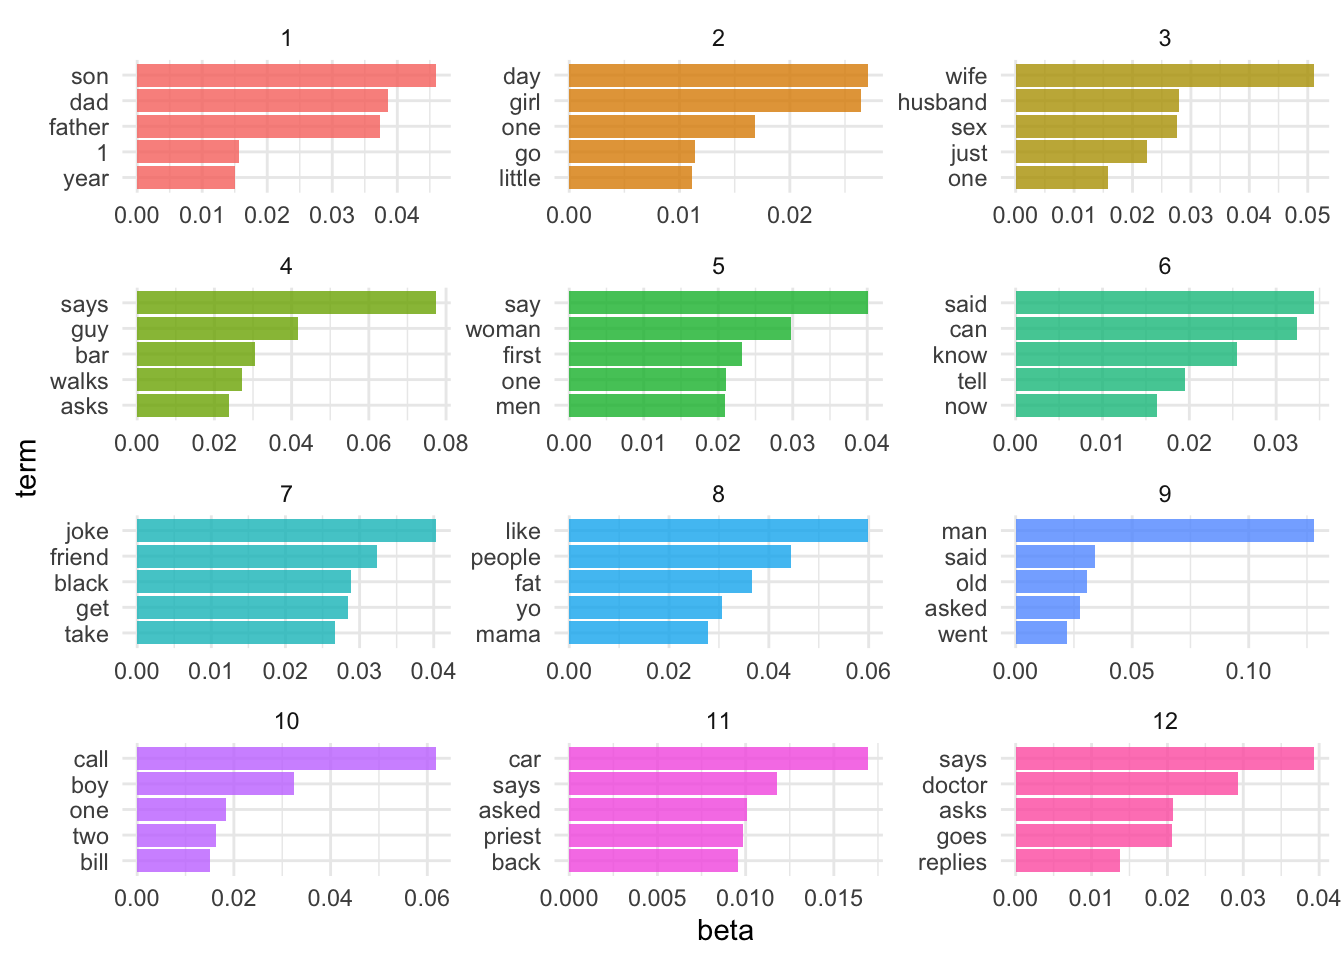
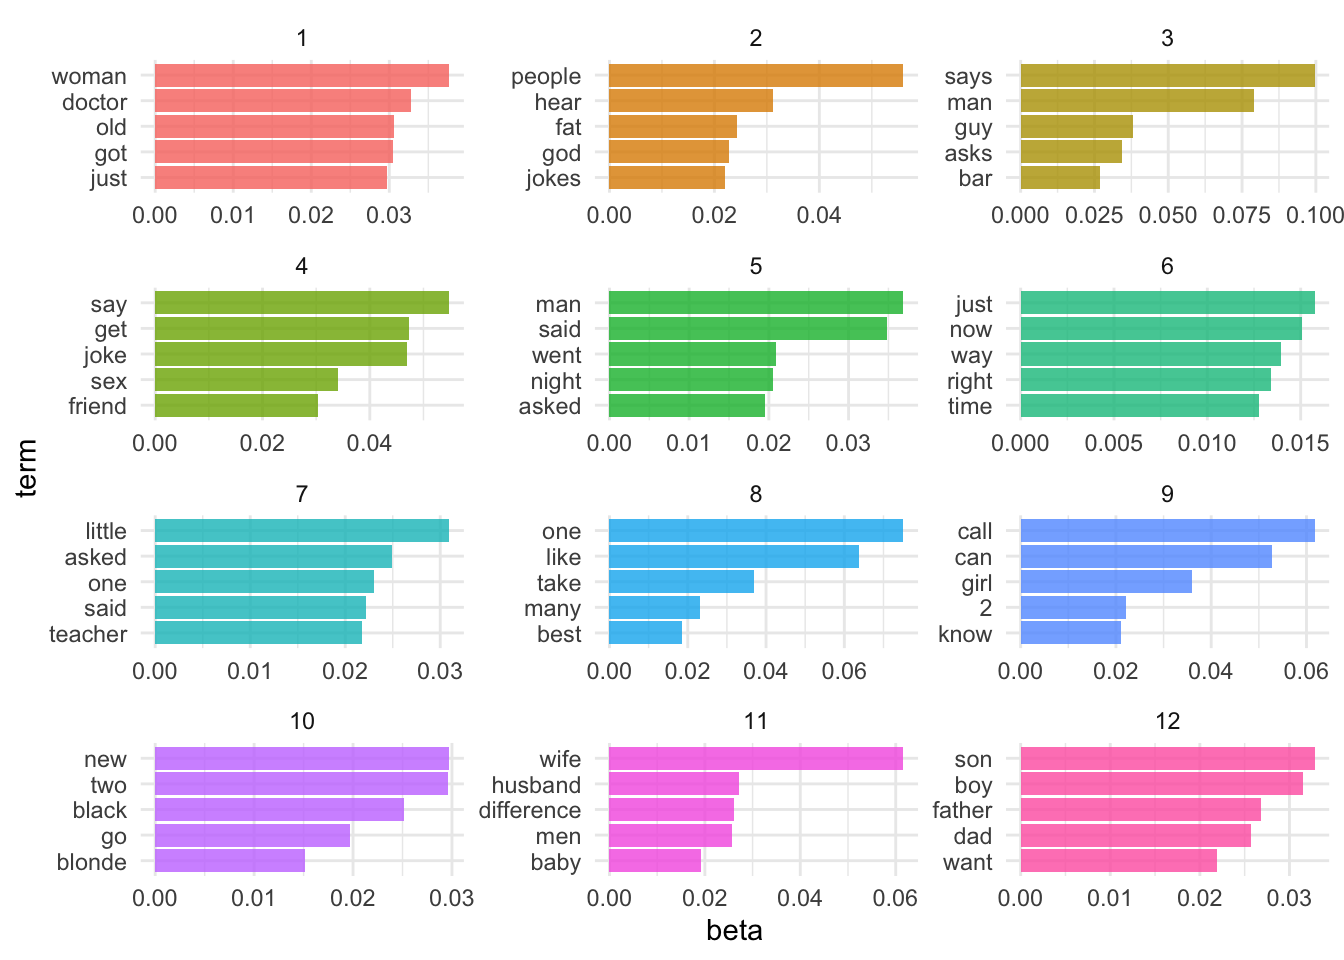
Increase number of jokes retained for LDA

diff --git a/content/notes/topic-modeling/index.md b/content/notes/topic-modeling/index.md
@@ -103,16 +103,23 @@ Frequently when using LDA, you don't actually know the underlying topic structur
 <blockquote class="reddit-card" data-card-created="1552319072"><a href="https://www.reddit.com/r/Jokes/comments/a593r0/twenty_years_from_now_kids_are_gonna_think_baby/">Twenty years from now, kids are gonna think "Baby it's cold outside" is really weird, and we're gonna have to explain that it has to be understood as a product of its time.</a> from <a href="http://www.reddit.com/r/Jokes">r/Jokes</a></blockquote>
 <script async src="//embed.redditmedia.com/widgets/platform.js" charset="UTF-8"></script>
 
-[`r/jokes`](https://www.reddit.com/r/Jokes/) is a subreddit for text-based jokes. Jokes can be up or down-voted depending on their popularity. [`joke-dataset`](https://github.com/taivop/joke-dataset/) contains a dataset of all joke submissions through February 2, 2017. We can obtain the JSON file storing these jokes and convert them into a document-term matrix:
+[`r/jokes`](https://www.reddit.com/r/Jokes/) is a subreddit for text-based jokes. Jokes can be up or down-voted depending on their popularity. [`joke-dataset`](https://github.com/taivop/joke-dataset/) contains a dataset of all joke submissions through February 2, 2017. We can obtain the JSON file storing these jokes and convert them into a document-term matrix.
 
 
 ```r
 # obtain r/jokes and extract values from the JSON file
 jokes_json <- fromJSON(file = "https://github.com/taivop/joke-dataset/raw/master/reddit_jokes.json")
 
-set.seed(123)
 jokes <- tibble(jokes = jokes_json) %>%
   unnest_wider(col = jokes)
+```
+
+```
+## Warning in deparse(x, backtick = TRUE): NAs introduced by coercion to integer
+## range
+```
+
+```r
 glimpse(jokes)
 ```
 
@@ -135,8 +142,10 @@ Within the `tidymodels` framework, unsupervised learning is typically implemente
 
 
 ```r
+set.seed(123) # set seed for random sampling
+
 jokes_rec <- recipe(~., data = jokes) %>%
-  step_sample(size = 5e03) %>%
+  step_sample(size = 1e04) %>%
   step_tokenize(title, body) %>%
   step_tokenmerge(title, body, prefix = "joke") %>%
   step_stopwords(joke) %>%
@@ -167,48 +176,46 @@ jokes_df %>%
 
 ```
 ## # A tibble: 5 x 2,502
-##   id     score tf_joke_0 tf_joke_1 tf_joke_1_1 tf_joke_10 tf_joke_10_inch
-##   <fct>  <dbl>     <dbl>     <dbl>       <dbl>      <dbl>           <dbl>
-## 1 2tzins    12         0         0           0          0               0
-## 2 4zqp10     0         0         0           0          0               0
-## 3 2lgwkn    58         0         0           0          0               0
-## 4 3qx36q     9         0         0           0          0               0
-## 5 2x2z3q     0         0         0           0          0               0
-## # … with 2,495 more variables: tf_joke_10_minutes <dbl>, tf_joke_100 <dbl>,
-## #   tf_joke_11 <dbl>, tf_joke_12 <dbl>, tf_joke_13 <dbl>, tf_joke_15 <dbl>,
-## #   tf_joke_18 <dbl>, tf_joke_18_18 <dbl>, tf_joke_18_18_18 <dbl>,
+##   id    score tf_joke_0 tf_joke_1 tf_joke_10 tf_joke_100 tf_joke_1000 tf_joke_11
+##   <fct> <dbl>     <dbl>     <dbl>      <dbl>       <dbl>        <dbl>      <dbl>
+## 1 2tzi…    12         0         0          0           0            0          0
+## 2 4zqp…     0         0         0          0           0            0          0
+## 3 2lgw…    58         0         0          0           0            0          0
+## 4 3qx3…     9         0         0          0           0            0          0
+## 5 2x2z…     0         0         0          0           0            0          0
+## # … with 2,494 more variables: tf_joke_12 <dbl>, tf_joke_13 <dbl>,
+## #   tf_joke_14 <dbl>, tf_joke_15 <dbl>, tf_joke_16 <dbl>, tf_joke_18 <dbl>,
 ## #   tf_joke_1st <dbl>, tf_joke_2 <dbl>, tf_joke_20 <dbl>,
 ## #   tf_joke_20_years <dbl>, tf_joke_200 <dbl>, tf_joke_2015 <dbl>,
-## #   tf_joke_2015_http <dbl>, tf_joke_2015_http_steamcommunity.com <dbl>,
-## #   tf_joke_2015_http_steamcommunity.com_market <dbl>,
-## #   tf_joke_2015_http_steamcommunity.com_market_listings <dbl>,
-## #   tf_joke_23 <dbl>, tf_joke_2nd <dbl>, tf_joke_3 <dbl>, tf_joke_30 <dbl>,
-## #   tf_joke_300 <dbl>, tf_joke_3rd <dbl>, tf_joke_4 <dbl>, tf_joke_40 <dbl>,
-## #   tf_joke_4th <dbl>, tf_joke_5 <dbl>, tf_joke_5_minutes <dbl>,
+## #   tf_joke_25 <dbl>, tf_joke_3 <dbl>, tf_joke_30 <dbl>, tf_joke_3rd <dbl>,
+## #   tf_joke_4 <dbl>, tf_joke_40 <dbl>, tf_joke_4th <dbl>, tf_joke_5 <dbl>,
 ## #   tf_joke_50 <dbl>, tf_joke_500 <dbl>, tf_joke_5th <dbl>, tf_joke_6 <dbl>,
-## #   tf_joke_7 <dbl>, tf_joke_730 <dbl>, tf_joke_730_sticker <dbl>,
-## #   tf_joke_730_sticker_7c <dbl>, tf_joke_76561198082478987 <dbl>,
+## #   tf_joke_69 <dbl>, tf_joke_7 <dbl>, tf_joke_76561198082478987 <dbl>,
 ## #   tf_joke_76561198082478987_inventory <dbl>, tf_joke_7c <dbl>,
-## #   tf_joke_7c_cologne <dbl>, tf_joke_7c_cologne_2015 <dbl>, tf_joke_8 <dbl>,
-## #   tf_joke_80 <dbl>, tf_joke_9 <dbl>, tf_joke_9_11 <dbl>, tf_joke_90 <dbl>,
-## #   tf_joke_99 <dbl>, tf_joke_able <dbl>, tf_joke_abraham <dbl>,
-## #   tf_joke_absolutely <dbl>, tf_joke_accent <dbl>, tf_joke_accept <dbl>,
-## #   tf_joke_accepted <dbl>, tf_joke_accident <dbl>, tf_joke_accidentally <dbl>,
-## #   tf_joke_across <dbl>, tf_joke_across_street <dbl>, tf_joke_act <dbl>,
-## #   tf_joke_action <dbl>, tf_joke_actually <dbl>, tf_joke_adam <dbl>,
-## #   tf_joke_add <dbl>, tf_joke_added <dbl>, tf_joke_advice <dbl>,
+## #   tf_joke_8 <dbl>, tf_joke_9 <dbl>, tf_joke_9_11 <dbl>, tf_joke_90 <dbl>,
+## #   tf_joke_99 <dbl>, tf_joke_able <dbl>, tf_joke_absolutely <dbl>,
+## #   tf_joke_accent <dbl>, tf_joke_accept <dbl>, tf_joke_accident <dbl>,
+## #   tf_joke_accidentally <dbl>, tf_joke_across <dbl>,
+## #   tf_joke_across_street <dbl>, tf_joke_act <dbl>, tf_joke_action <dbl>,
+## #   tf_joke_actually <dbl>, tf_joke_adam <dbl>, tf_joke_add <dbl>,
+## #   tf_joke_added <dbl>, tf_joke_advice <dbl>, tf_joke_afford <dbl>,
 ## #   tf_joke_afraid <dbl>, tf_joke_africa <dbl>, tf_joke_african <dbl>,
-## #   tf_joke_afternoon <dbl>, tf_joke_afterwards <dbl>, tf_joke_age <dbl>,
-## #   tf_joke_agent <dbl>, tf_joke_ago <dbl>, tf_joke_agree <dbl>,
-## #   tf_joke_agreed <dbl>, tf_joke_agrees <dbl>, tf_joke_ah <dbl>,
+## #   tf_joke_afternoon <dbl>, tf_joke_age <dbl>, tf_joke_agent <dbl>,
+## #   tf_joke_ago <dbl>, tf_joke_agree <dbl>, tf_joke_agreed <dbl>,
+## #   tf_joke_agreement <dbl>, tf_joke_agrees <dbl>, tf_joke_ah <dbl>,
 ## #   tf_joke_ahead <dbl>, tf_joke_ain't <dbl>, tf_joke_air <dbl>,
 ## #   tf_joke_airplane <dbl>, tf_joke_airport <dbl>, tf_joke_alcohol <dbl>,
-## #   tf_joke_alcoholic <dbl>, tf_joke_alien <dbl>, tf_joke_aliens <dbl>,
-## #   tf_joke_alive <dbl>, tf_joke_alligator <dbl>, tf_joke_allow <dbl>,
-## #   tf_joke_allowed <dbl>, tf_joke_almost <dbl>, tf_joke_alone <dbl>,
-## #   tf_joke_along <dbl>, tf_joke_already <dbl>, tf_joke_alright <dbl>,
-## #   tf_joke_also <dbl>, tf_joke_although <dbl>, tf_joke_always <dbl>,
-## #   tf_joke_amazed <dbl>, …
+## #   tf_joke_alien <dbl>, tf_joke_alive <dbl>, tf_joke_alley <dbl>,
+## #   tf_joke_allow <dbl>, tf_joke_allowed <dbl>, tf_joke_almost <dbl>,
+## #   tf_joke_alone <dbl>, tf_joke_along <dbl>, tf_joke_alphabet <dbl>,
+## #   tf_joke_already <dbl>, tf_joke_alright <dbl>, tf_joke_also <dbl>,
+## #   tf_joke_although <dbl>, tf_joke_always <dbl>, tf_joke_amazed <dbl>,
+## #   tf_joke_amazing <dbl>, tf_joke_america <dbl>, tf_joke_american <dbl>,
+## #   tf_joke_americans <dbl>, tf_joke_among <dbl>, tf_joke_amount <dbl>,
+## #   tf_joke_anal <dbl>, tf_joke_angel <dbl>, tf_joke_angry <dbl>,
+## #   tf_joke_animal <dbl>, tf_joke_animals <dbl>, tf_joke_anniversary <dbl>,
+## #   tf_joke_annoyed <dbl>, tf_joke_another <dbl>, tf_joke_another_one <dbl>,
+## #   tf_joke_answer <dbl>, tf_joke_answered <dbl>, …
 ```
 
 The resulting data frame is one row per joke and one column per token. To convert it to a `DocumentTermMatrix`, we need to first convert it into a tidytext format (one-row-per-token), remove all rows with a frequency of 0 (that is, the token did not appear in the joke), then convert it to a DTM using `cast_dtm()`.
@@ -326,7 +333,7 @@ perplexity(jokes_lda12)
 ```
 
 ```
-## [1] 930.0559
+## [1] 994.9667
 ```
 
 However, the statistic is somewhat meaningless on its own. The benefit of this statistic comes in comparing perplexity across different models with varying $k$s. The model with the lowest perplexity is generally considered the "best".
@@ -350,28 +357,6 @@ if (file.exists(here("static", "extras", "jokes_lda_compare.Rdata"))) {
   toc()
   save(jokes_dtm, jokes_lda_compare, file = here("static", "extras", "jokes_lda_compare.Rdata"))
 }
-```
-
-```
-## Loading required package: future
-```
-
-```
-## Warning: Strategy 'multiprocess' is deprecated in future (>= 1.20.0). Instead,
-## explicitly specify either 'multisession' or 'multicore'. In the current R
-## session, 'multiprocess' equals 'multisession'.
-```
-
-```
-## Warning in supportsMulticoreAndRStudio(...): [ONE-TIME WARNING] Forked
-## processing ('multicore') is not supported when running R from RStudio
-## because it is considered unstable. For more details, how to control forked
-## processing or not, and how to silence this warning in future R sessions, see ?
-## parallelly::supportsMulticore
-```
-
-```
-## 3360.092 sec elapsed
 ```
 
 
@@ -655,6 +640,7 @@ devtools::session_info()
 ##  sessioninfo   1.1.1      2018-11-05 [1] CRAN (R 4.0.0)                       
 ##  slam        * 0.1-48     2020-12-03 [1] CRAN (R 4.0.2)                       
 ##  SnowballC     0.7.0      2020-04-01 [1] CRAN (R 4.0.0)                       
+##  stopwords     2.2        2021-02-10 [1] CRAN (R 4.0.2)                       
 ##  stringi       1.5.3      2020-09-09 [1] CRAN (R 4.0.2)                       
 ##  stringr     * 1.4.0      2019-02-10 [1] CRAN (R 4.0.0)                       
 ##  survival      3.2-7      2020-09-28 [1] CRAN (R 4.0.4)                       
